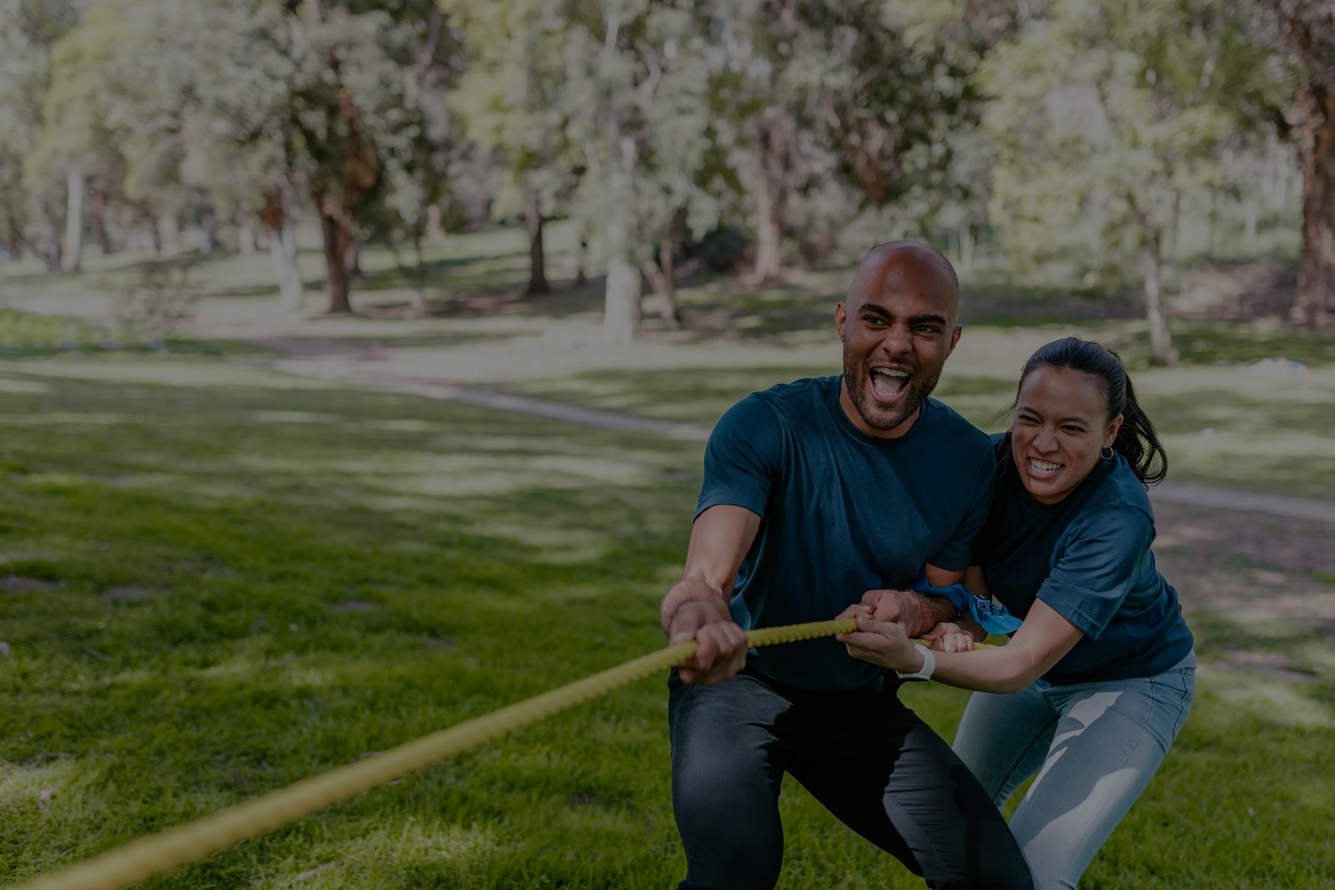
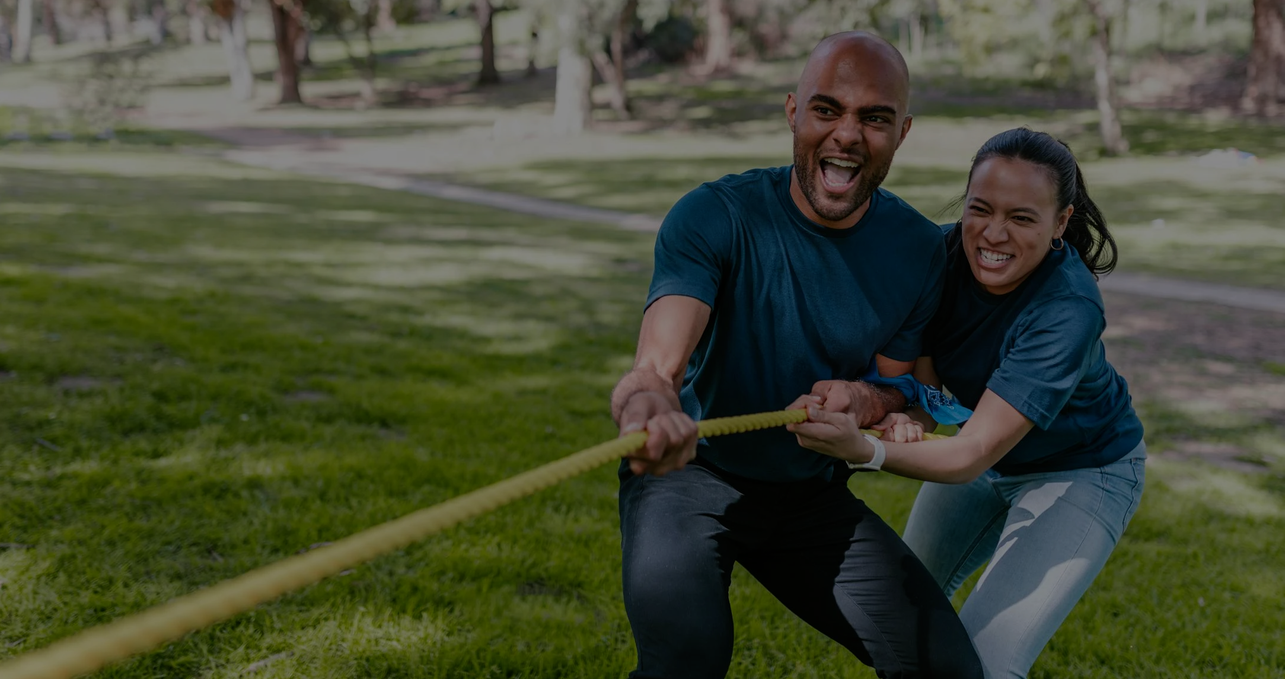
initial fixes

diff --git a/src/components/Footer.tsx b/src/components/Footer.tsx
@@ -1,8 +1,8 @@
 import styled from "@emotion/styled";
-import { FacebookRounded } from "@mui/icons-material";
 import EmailRounded from "../assets/Socials/Email.tif.svg";
 import InstagramRounded from "../assets/Socials/Instagram.tif.svg";
 import YouTubeRounded from "../assets/Socials/YouTube.tif.svg";
+import FacebookRounded from "../assets/Socials/facebook.tif.svg";
 import useWindowDimensions from "../hooks/useWindowDimensions";
 import { darkGreen, offWhite } from "./Core/Colors";
 import { BorderRadius, PaddingOrMargin, Row } from "./Core/Layout";
@@ -24,7 +24,7 @@ export default function Footer() {
     const SocialIcons = () => (
         <SocialsRow $fontSize={fontSize}>
             <StyledAnchor href="https://www.facebook.com/WellnessnVitality" title="Facebook">
-                <FacebookRounded style={{ width: fontSize, height: fontSize }} />
+                <RoundedIcon src={FacebookRounded} alt="Facebook" $size={fontSize} />
             </StyledAnchor>
             <StyledAnchor href="https://www.youtube.com/@wellnessnvitality">
                 <RoundedIcon src={YouTubeRounded} alt="YouTube" $size={fontSize} />
@@ -58,6 +58,10 @@ export default function Footer() {
             </DisclaimerText>
             <DisclaimerText $isMobile={isMobile}>
                Copyright © 2024 Wellness n Vitality. All Rights Reserved. Established 2020.
+            </DisclaimerText>
+            <DisclaimerText $isMobile={isMobile}>
+                Designed by 
+                <a href="https://www.ellenokamuradesign.com/" target="_blank noreferrer"> Ellen Okamura</a>
             </DisclaimerText>
         </Wrapper>
     );

diff --git a/src/components/Core/Typography.ts b/src/components/Core/Typography.ts
@@ -2,13 +2,13 @@ import styled from "@emotion/styled";
 import { theme } from "./Colors";
 
 export const FontSizes = {
-    button: 20,
+    button: 18,
     buttonSmall: 16,
-    coverTitle: 80,
-    heading: 40,
-    headingLarge: 60,
-    largeContent: 30,
-    default: 24,
+    coverTitle: 60,
+    heading: 36,
+    headingLarge: 56,
+    largeContent: 28,
+    default: 22,
     mobile: {
         button: 14,
         buttonSmall: 12,
@@ -35,7 +35,7 @@ export const Title = styled.h1<{$isMobile: boolean}>`
 
 export const HeadingText = styled.h2<{$color: 'primary' | 'secondary', $isMobile: boolean}>`
     font-size: ${(props) =>  props.$isMobile ? FontSizes.mobile.heading : FontSizes.heading}px;
-    font-weight: ${Weights.medium};
+    font-weight: ${Weights.regular};
     color: ${(props) => theme.palette.text[props.$color]};
 `;
 
@@ -47,7 +47,7 @@ export const HeadingTextLight = styled.h2<{$color: 'primary' | 'secondary', $isM
 
 export const ContentTextBold = styled.p<{$isMobile: boolean}>`
     font-size: ${(props) => props.$isMobile ? `${FontSizes.mobile.default}px` : `${FontSizes.default}px`};
-    font-weight: ${Weights.medium};
+    font-weight: ${Weights.regular};
 `;
 
 export const ContentText = styled(ContentTextBold)`
@@ -56,5 +56,5 @@ export const ContentText = styled(ContentTextBold)`
 
 export const DisclaimerText = styled(ContentTextBold)`
     font-size: ${(props) => props.$isMobile ? FontSizes.mobile.buttonSmall : FontSizes.buttonSmall}px;
-    font-weight: ${Weights.extraLight};
+    font-weight: ${Weights.light};
 `;

diff --git a/src/components/TestimonialsCoverComponents.tsx b/src/components/TestimonialsCoverComponents.tsx
@@ -36,7 +36,7 @@ const FixedTopWrapper = styled.div<{$isMobile: boolean}>`
 
 const CoverImage = styled.img`
     width: 100%;
-    height: 100%;
+    height: 90%;
     object-fit: cover;
     transform: rotateY(180deg);
     filter: brightness(70%);
@@ -64,7 +64,7 @@ const BlurContent = styled.div`
     filter: opacity(30%) blur(40px);
     position: absolute;
     width: 100%;
-    height: 100%;
+    height: 60%;
     z-index: -1;
 `;
 
@@ -75,15 +75,12 @@ const CoverTitle = styled(Title)`
 
 const CoverSubtitle = styled(ContentTextBold)`
     color: ${theme.palette.getContrastText('default')};
-    -webkit-text-stroke-width: 1px;
-    -webkit-text-stroke-color: ${theme.palette.text.primary};
-    text-shadow: 0 1px 0px ${theme.palette.text.primary};
     text-align: center;
 `;
 
 const IconWrapper = styled.div<{$isMobile: boolean}>`
     position: absolute;
-    bottom: ${(props) => props.$isMobile ? '5%' : '8%'};
+    bottom: ${(props) => props.$isMobile ? '5%' : '15%'};
     left: 50%;
     transform: translateX(-50%);
 `;

diff --git a/src/components/CoverComponent.tsx b/src/components/CoverComponent.tsx
@@ -47,7 +47,7 @@ const FixedTopWrapper = styled.div<{$isMobile: boolean}>`
 
 const CoverImage = styled.img`
     width: 100%;
-    height: 100%;
+    height: 90%;
     object-fit: cover;
     transform: rotateY(180deg);
     filter: brightness(70%);
@@ -83,7 +83,7 @@ const BlurContent = styled.div`
     filter: opacity(30%) blur(40px);
     position: absolute;
     width: 100%;
-    height: 100%;
+    height: 50%;
     z-index: -1;
 `;
 
@@ -102,14 +102,11 @@ const OutlineTitle = styled(Title)`
 
 const CoverSubtitle = styled(ContentTextBold)`
     color: ${theme.palette.getContrastText('default')};
-    -webkit-text-stroke-width: 1px;
-    -webkit-text-stroke-color: ${theme.palette.text.primary};
-    text-shadow: 0 1px 0px ${theme.palette.text.primary};
 `;
 
 const IconWrapper = styled.div<{$isMobile: boolean}>`
     position: absolute;
-    bottom: ${(props) => props.$isMobile ? '5%' : '8%'};
+    bottom: ${(props) => props.$isMobile ? '5%' : '15%'};
     left: 50%;
     transform: translateX(-50%);
 `;

diff --git a/src/components/CoachingPhilosophy.tsx b/src/components/CoachingPhilosophy.tsx
@@ -33,16 +33,17 @@ export default function CoachingPhilosophy () {
 const Wrapper = styled.div<{$isSmallerScreen: boolean}>`
     position: relative;
     background-image: url(${CoachingImage});
+    background-position: 60% ;
     height: ${(props) => props.$isSmallerScreen ? 100 : 50}vh;
     background-size: cover;
     border-radius: ${BorderRadius.button}px;
-    padding: 10%;
+    padding: 5%;
 `;
 
 const ContentWrapper = styled.div`
     position: absolute;
     color: ${theme.palette.text.secondary};
-    top: 15%;
+    top: 10%;
     padding-right: 10%;
     padding-bottom: 10%;
 `;
@@ -51,7 +52,7 @@ const BlurWrapper = styled.div`
     background-color: black;
     filter: opacity(0.5) blur(40px);
     border-radius: ${BorderRadius.button}px;
-    height: 500px;
+    height: 400px;
 `;
 
 const StyledContentText = styled(ContentText)`

diff --git a/src/components/SpecialtiesAndServices.tsx b/src/components/SpecialtiesAndServices.tsx
@@ -1,9 +1,9 @@
 import styled from "@emotion/styled";
 import ChronicPain from '../assets/specialties/chronic pain 2.jpg';
 import GutHealth from '../assets/specialties/gut health.jpg';
-import HydrationIcon from "../assets/specialties/Hydration.png";
+import HydrationIcon from "../assets/specialties/Hydration.svg";
 import NutritionIcon from "../assets/specialties/Nutrition.svg";
-import PhysicalActivityIcon from "../assets/specialties/PhysicalActivity.svg";
+import PhysicalActivityIcon from "../assets/specialties/PhysicalHealth.svg";
 import RelationshipIcon from "../assets/specialties/Relationship.svg";
 import SleepIcon from "../assets/specialties/Sleep.svg";
 import StressIcon from "../assets/specialties/Stress.svg";

diff --git a/src/components/CoreButtons.tsx b/src/components/CoreButtons.tsx
@@ -14,7 +14,7 @@ export const ActionButton = styled(BaseButton) <{ $variant: 'default' | 'paper',
     font-size: ${(props) => props.$isMobile ? `${FontSizes.mobile.buttonSmall}px` : `${FontSizes.buttonSmall}px`};
     padding: ${(props) => props.$isMobile ? '8px 10px' : '15px 30px'};
     color: ${(props) => theme.palette.getContrastText(props.$variant)};
-    font-weight: ${(props) => props.$variant == 'default' ? Weights.medium : Weights.light};
+    font-weight: ${(props) => props.$variant == 'default' ? Weights.regular : Weights.light};
     width: fit-content;
 `;
 

diff --git a/src/components/Pillar.tsx b/src/components/Pillar.tsx
@@ -55,12 +55,11 @@ const InnerContent = styled.div<{$isMobile: boolean}>`
     width: ${(props) => props.$isMobile ? 110 : 140}px;
     height: 160px;
     border: 3px solid ${theme.palette.divider};
-    /* margin: 0px 15px; */
     font-size: ${FontSizes.coverTitle}px;
     color: ${theme.palette.text.primary};
+    padding: 10px 2px;
 `;
 
 const SmallContentText = styled (ContentText)`
     font-size: ${(props) => props.$isMobile ? FontSizes.mobile.button : FontSizes.button}px;
-    margin-top: -20px;
 `;

diff --git a/src/components/PainPoints.tsx b/src/components/PainPoints.tsx
@@ -61,7 +61,7 @@ const PainPointRow = styled(Row)`
 const PainPointsWrapper = styled.div<{$isMobile: boolean}>`
     display: block;
     position: relative;
-    margin-top: ${(props) => props.$isMobile ? 100 : 120}vh; // size of cover image
+    margin-top: ${(props) => props.$isMobile ? 100 : 100}vh; // size of cover image
     padding: ${PaddingOrMargin.extraLarge * 3}px ${(props) => props.$isMobile ? '5%' : '10%'};
     max-width: 100%;
     overflow-x: clip;

diff --git a/src/components/Pages/Testimonials.tsx b/src/components/Pages/Testimonials.tsx
@@ -116,7 +116,7 @@ function TestimonialCard ({title, date, videoURL, onClick}: TestimonialCardProps
 const VideoTestimonials = styled.div<{$isMobile: boolean}>`
     display: block;
     position: relative;
-    margin-top: ${(props) => props.$isMobile ? 100 : 120}vh; // size of cover image
+    margin-top: ${(props) => props.$isMobile ? 100 : 110}vh; // size of cover image
     padding: ${PaddingOrMargin.extraLarge * 3}px 10%;
 `;
 

diff --git a/src/components/Qualifications.tsx b/src/components/Qualifications.tsx
@@ -54,8 +54,8 @@ export default function Qualifications() {
 const Wrapper = styled.div`
     border-radius: ${BorderRadius.button}px;
     border: 1px solid ${black};
-    margin: 10%;
-    padding: ${PaddingOrMargin.extraLarge}px 10%;
+    margin: 8%;
+    padding: ${PaddingOrMargin.extraLarge}px 2%;
     text-align: center;
     align-items: center;
 `;

diff --git a/src/index.css b/src/index.css
@@ -1,12 +1,12 @@
 :root {
-    font-family: Inter, sans-serif;
+    font-family: Inter;
     font-feature-settings: 'liga' 1, 'calt' 1;
     /* fix for Chrome */
 }
 
 @supports (font-variation-settings: normal) {
     :root {
-        font-family: InterVariable, sans-serif;
+        font-family: Inter;
         letter-spacing: 0.25px;
     }
 }
